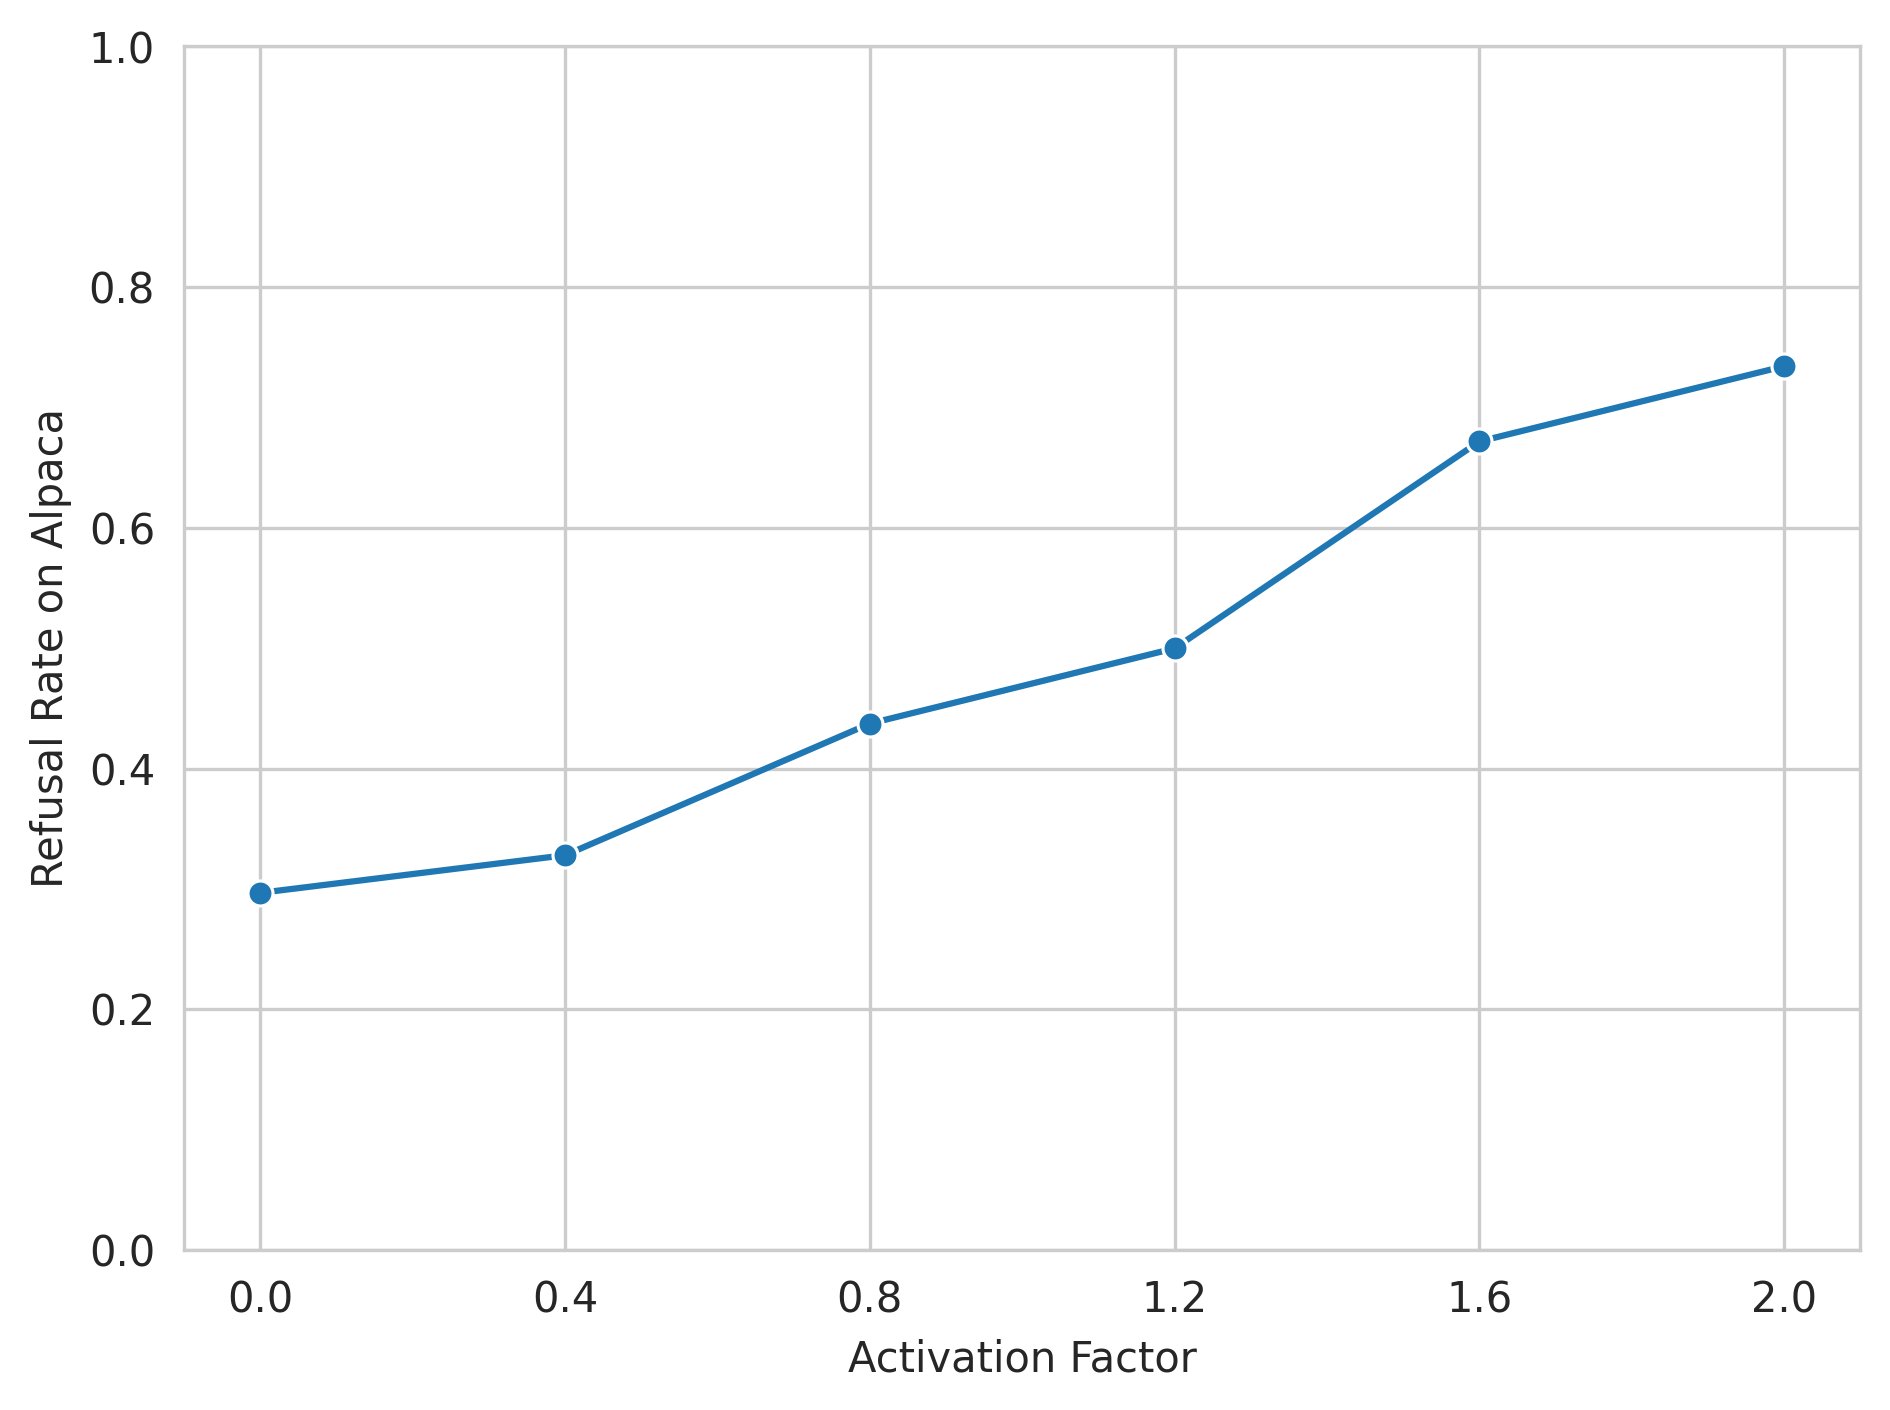
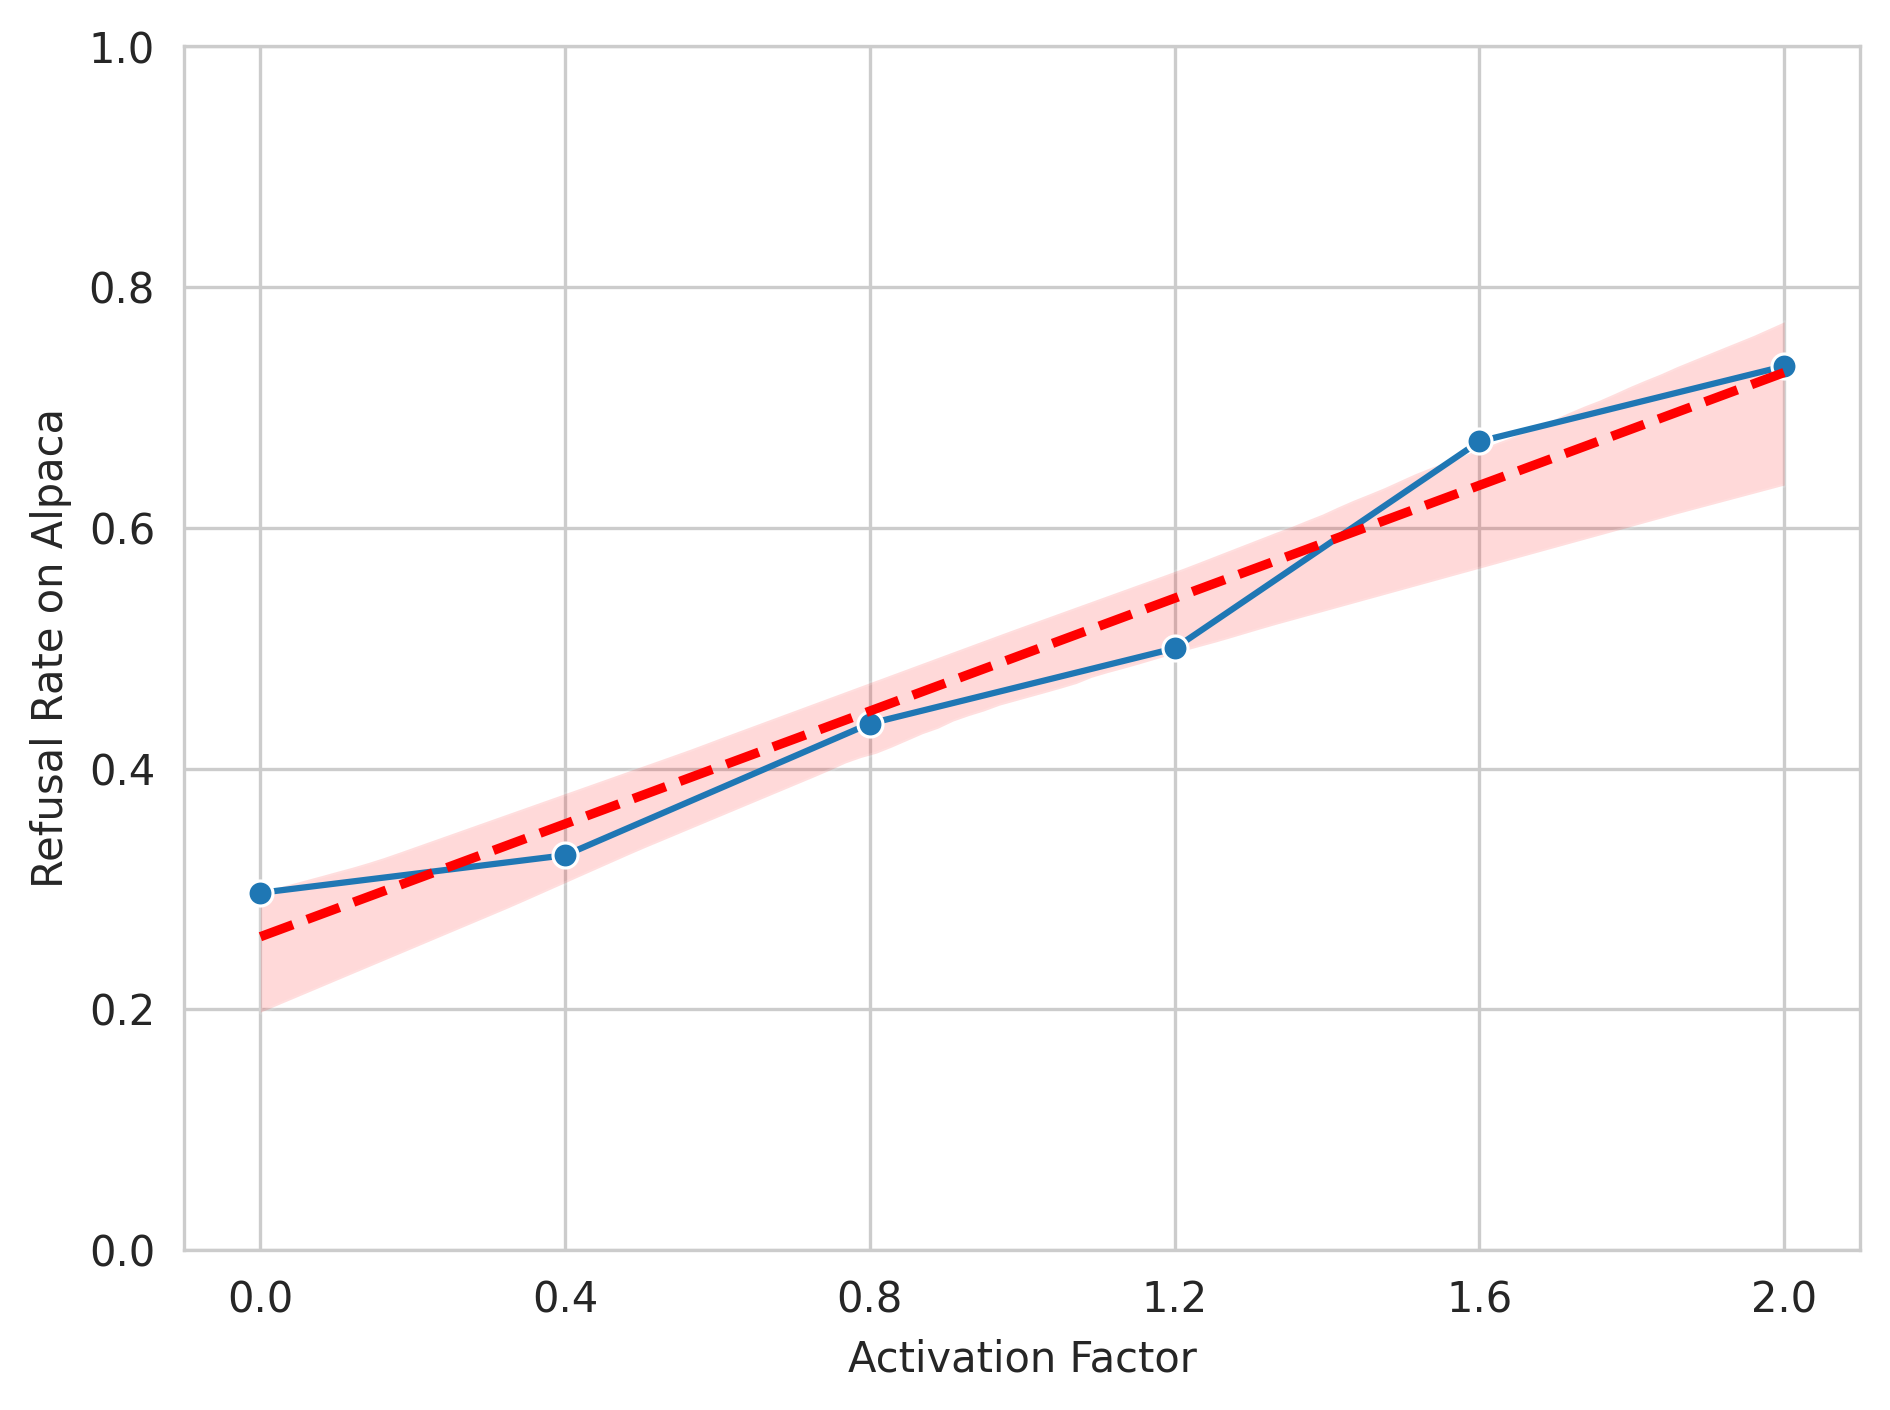
added LOBF to line graph of activation factor

Changed region(s): [[0.1249, 0.2184, 0.9677, 0.7177]]

diff --git a/utils_eval.py b/utils_eval.py
@@ -66,6 +66,15 @@ def plot_line_harmless_refusal_scores(refusal_scores, activation_factors):
         y='Refusal Rate',
         marker='o'
     )
+    # Add regression line
+    sns.regplot(
+        data=data,
+        x='Activation Factor',
+        y='Refusal Rate',
+        scatter=False,
+        color='red',
+        line_kws={'linestyle': '--'}
+    )
 
     plt.xlabel('Activation Factor')
     plt.ylabel('Refusal Rate on Alpaca')
